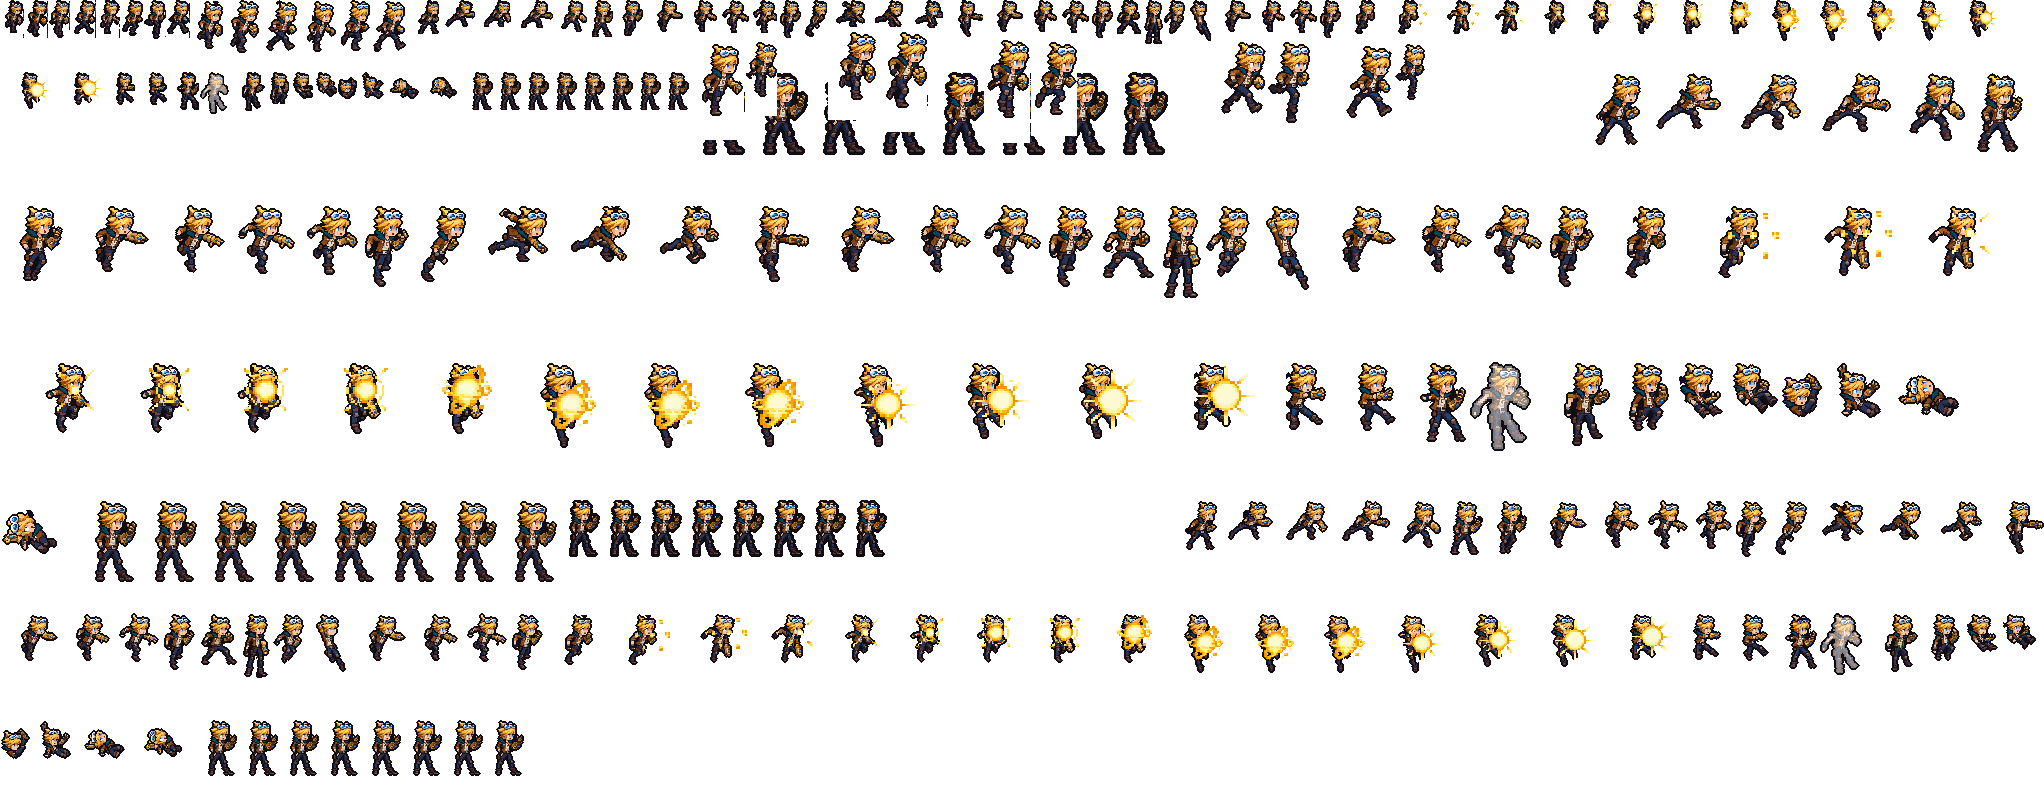
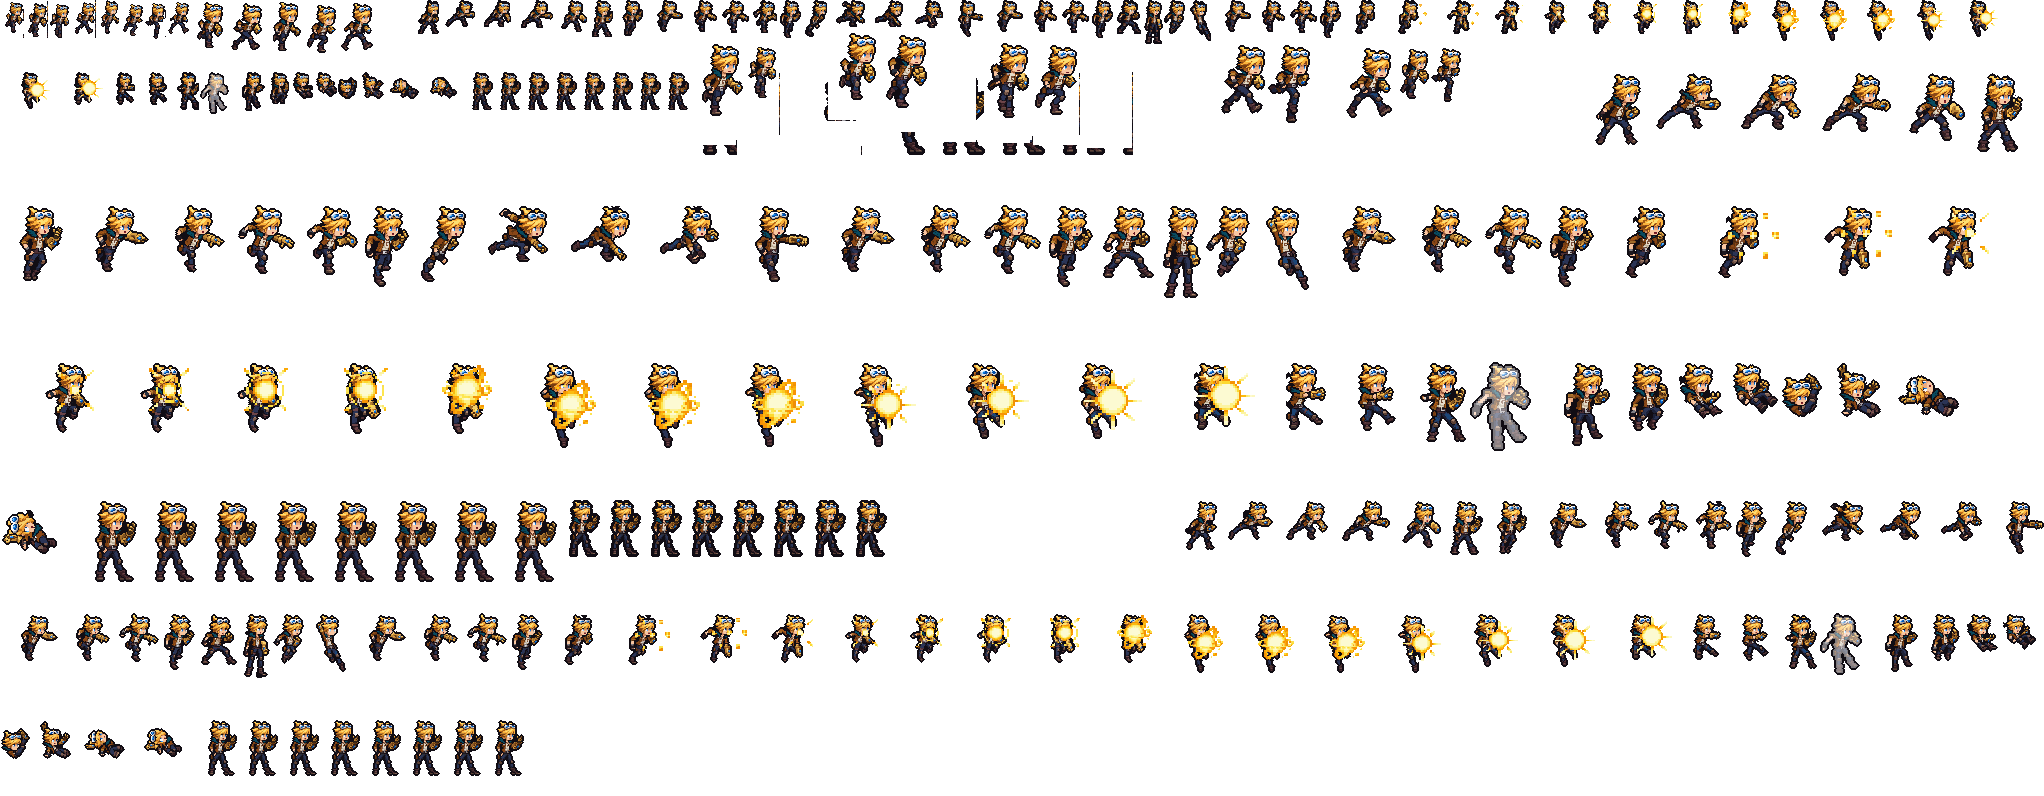
伊泽瑞尔跑步按他的特征（取自 claude/run-char d5c769ad2：只统一头，旧头完整擦掉，新头的下巴对齐每帧原画下巴；胳膊、披风、衣摆保留原画；+ run_body_anim.py 头锁的新键）（用户：「伊泽瑞尔可以装」）

diff --git a/tools/art/run_body_anim.py b/tools/art/run_body_anim.py
@@ -754,7 +754,11 @@ def compose_head(a, i, src, head, mov, cfg, pose=None):
     sh = cfg["shift"][i] if cfg.get("shift") else 0
     if sh:
         a, torso, legs_only, sh_joined = shifted_upper(a, cfg, pose, sh)
-    my, mx = find_head(src, a, head)
+    # `head_match_colours`: the head is put where the frame's own head's squares of these colours are (goggles, eyes):
+    # matched on them alone, the rest of a redrawn head (hair spikes, a longer face) does not pull it off
+    tmpl = head & colour_mask(src, [tuple(c) for c in cfg["head_match_colours"]]) if cfg.get("head_match_colours") \
+        else head
+    my, mx = find_head(src, a, tmpl)
     dy, dx = my + mov["body"][i], mx + x_at(cfg, i)
     if pose == cfg["from"] and (dy, dx) == (my, mx) == (0, 0) and not sh:
         # frame `from` keeps its own head where it is: nothing to change
@@ -771,8 +775,27 @@ def compose_head(a, i, src, head, mov, cfg, pose=None):
     chin = cfg["chin"] + my                            # the frame's own neck starts here
     # `clear_grow`: how far round frame `from`'s head the frame's own is cleared (2 squares by default)
     zone = ndimage.binary_dilation(at_match, structure=K8, iterations=int(cfg.get("clear_grow", 2)))
-    zone[max(0, chin):] = False
-    own = zone & colour_mask(a, cols) & ~keep_mask(a, cfg, pose)
+    if cfg.get("clear_all"):
+        # `clear_all`: every square of the frame's own head goes - all its colours but `keep_colours` (a collar, a
+        # scarf round the neck), down to its own chin: the lowest of its face's `skin` squares, and the outline under it
+        sk = zone & colour_mask(a, [tuple(c) for c in cfg.get("skin", [])])
+        own_chin = int(np.nonzero(sk.any(1))[0].max()) + 2 if sk.any() else chin
+        zone[max(0, max(chin, own_chin)):] = False
+        fsk = head & colour_mask(src, [tuple(c) for c in cfg.get("skin", [])])
+        if cfg.get("head_align") == "chin" and sk.any() and fsk.any() and not (pose == cfg["from"] and not sh):
+            # `head_align` "chin": the laid chin on the frame's own drawn chin, so the neck under it is the drawing's
+            # (a redrawn head a few rows longer than frame `from`'s: the columns stay where the goggles / eyes put them)
+            dy = (own_chin - 2) - int(np.nonzero(fsk.any(1))[0].max()) + mov["body"][i]
+        # a collar / scarf (`keep_colours`) stays under the laid chin and behind the laid face (its first skin column);
+        # beside the face it is the frame's own bigger head's collar edge and goes with the head
+        face_left = (int(np.nonzero(fsk.any(0))[0].min()) + dx) if fsk.any() else W
+        rows_, cols_ = np.mgrid[0:H, 0:W]
+        keep_c = colour_mask(a, [tuple(c) for c in cfg.get("keep_colours", [])]) & \
+            ((rows_ >= cfg["chin"] + dy - 1) | (cols_ < face_left))
+        own = zone & (a[..., 3] > 0) & ~keep_c & ~keep_mask(a, cfg, pose)
+    else:
+        zone[max(0, chin):] = False
+        own = zone & colour_mask(a, cols) & ~keep_mask(a, cfg, pose)
     b = a.copy()
     b[own] = 0
     legs = b[..., 3] > 0
